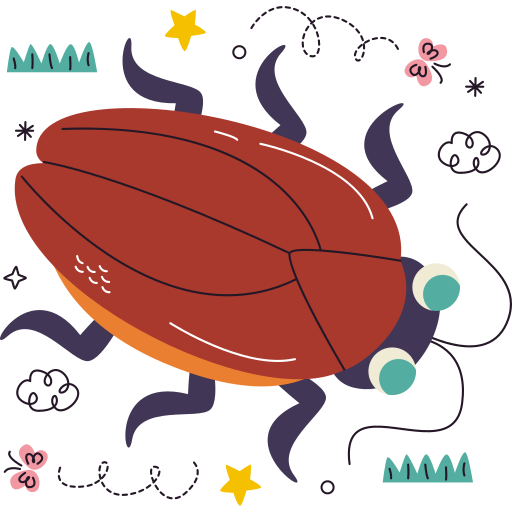
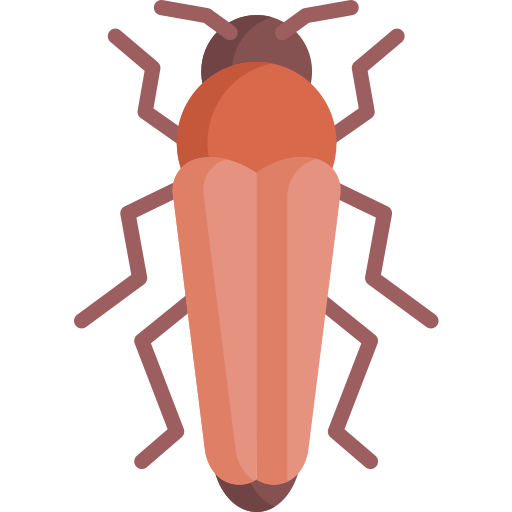
Replace button images for the better ones

diff --git a/index.html b/index.html
@@ -23,7 +23,7 @@
 				<button class="btn">
 					<img
 						src="./img/cockroach.png"
-						alt="A cockroach pictured in cartoonish sticker style with two butterflies, two clouds, two pieces of grass and two starts drawn around it"
+						alt="An icon of a cockroach pictured in cartoon like style"
 						class="btn-img"
 						width="100px"
 						height="auto"
@@ -32,7 +32,7 @@
 				<button class="btn">
 					<img
 						src="./img/foot.png"
-						alt="A bare foot pictured in cartoonish sticker style with two mini-rockets, two clouds and one bone drawn around it"
+						alt="An icon of a bare foot pictured in cartoon like style"
 						class="btn-img"
 						width="100px"
 						height="auto"
@@ -41,7 +41,7 @@
 				<button class="btn">
 					<img
 						src="./img/nuclear-bomb.png"
-						alt="A nuclear bomb mushroom cloud pictured in cartoonish sticker style"
+						alt="An icon of a nuclear bomb mushroom cloud pictured in cartoon like style"
 						class="btn-img"
 						width="100px"
 						height="auto"
